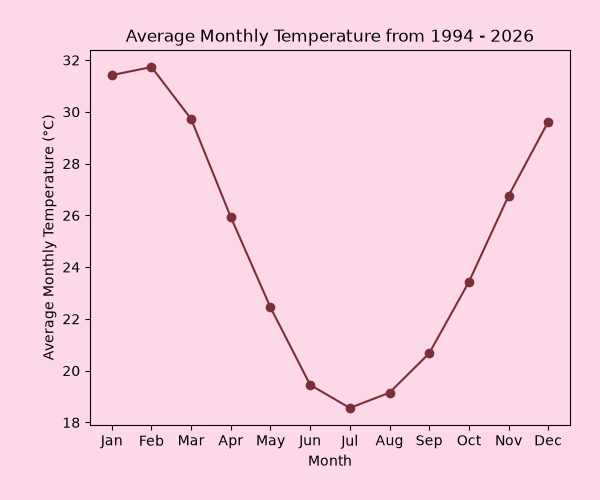
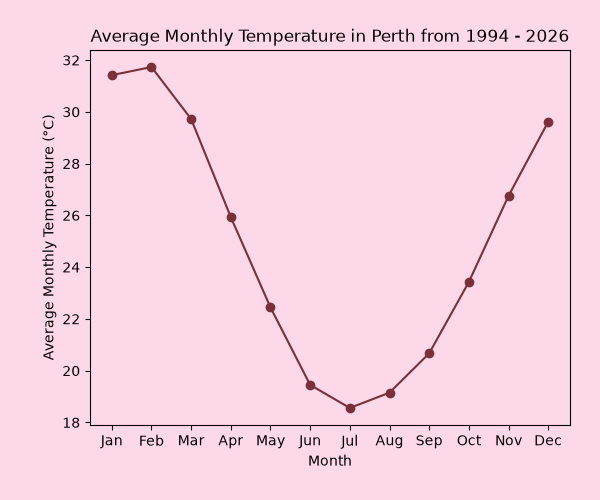
Centring headings

Changed region(s): [[0.15, 0.06, 0.96, 0.09]]

diff --git a/frontend.html b/frontend.html
@@ -112,6 +112,28 @@ img {
   max-width: 50%;
   width: 100%;
 }
+
+/* centring the season buttons on the home page */
+.season-picker {
+    text-align: center;
+}
+
+/* centring each heading */
+.home-text {
+    text-align: center;
+}   
+
+.birak-text {
+    text-align: center;
+}
+
+.kambarang-text {
+    text-align: center;
+}
+
+.makuru-text {
+    text-align: center;
+}
     </style>
 </head>
 <body>
@@ -119,25 +141,37 @@ img {
 <div class="app">
 
  <div id="home" class="screen active">
+    <div class="home-text"> 
     <h1>Family activities in the Nyoongar Seasons</h1>
+    </div>
     <h2>Of the six Nyoongar Calender seasons, 3 are the main focus for this app, based on their differences from each other, and their alignment with the school holidays in Australia.</h2>
-    <p>These are: Birak (Summer), Kambarang (Spring) and Makuru (Winter)</p>
+    <p>These are: <strong>Birak</strong>(Summer), <strong>Kambarang</strong>(Spring) and <strong>Makuru</strong>(Winter)</p>
+
+    <div class="season-picker">
+     <h2>Pick a season to explore:</h2>
+    <button onclick="showScreen('birak')">Birak</button>
+    <button onclick="showScreen('kambarang')">Kambarang</button>
+    <button onclick="showScreen('makuru')">Makuru</button>
+    </div>
+
+    <p>The Nyoongar region is the south-western region of Western Australia. This includes the Perth metropolitan area and surrounding regions, so these activities are mainly focused in the Perth area.</p>
+    <p>To understand which activities are suitable for each season, it is important to consider the weather patterns and natural occurrences of each time of year. This includes temperature and rainfall patterns.</p>
 
     <div class="chart-row">
         <img src="Data/average_monthly_temperature.png" alt="Average Monthly Temperature Chart">
         <img src="Data/average_monthly_precipitation.png" alt="Average Monthly Precipitation Chart">
     </div>
 
-    <h2>Pick a season to explore:</h2>
-    <button onclick="showScreen('birak')">Birak</button>
-    <button onclick="showScreen('kambarang')">Kambarang</button>
-    <button onclick="showScreen('makuru')">Makuru</button>
 </div>
 
     <div id="kambarang" class="screen">
+    <div class="kambarang-text">
     <h2>Kambarang</h2>
     <h3>October to November</h3>
+    </div>
     <p>The season of wildflowers. Kambarang is a time of renewal and growth, when the land is covered in colorful blooms. The days are becoming warmer and drier</p>
+    <p>Average Temperature: 25.12°C</p>
+    <p>Average Precipitation: 32.16mm</p>
 
     <h3>Kambarang activities to do on a budget:</h3>
     <ul>
@@ -160,13 +194,17 @@ img {
     </div>
 
     <div id="birak" class="screen">
-    <h2>Birak</h2>
-    <h3>December to January</h3>
+        <div class="birak-text">
+        <h2>Birak</h2>
+        <h3>December to January</h3>
+        </div>
     <p>The season of fire. Birak is a time of heat and dryness, where the Sea Breeze brings relief from the scorching sun. It's a time for outdoor activities and enjoying the natural beauty of the land.</p>
+    <p>Average Temperature: 30.53°C</p>
+    <p>Average Precipitation: 12.9mm</p>
 
     <h3>Birak activities to do on a budget:</h3>
     <ul>
-        <li><strong>Beaches:</strong> Cottesloe Beach, Omeo Wreck, Mettam's Pool, Hillary's Boat Harbour, and more for swimmming, picnicing, and having fun with the family.</li>
+        <li><strong>Beaches:</strong> Cottesloe Beach, Omeo Wreck, Mettam's Pool, Hillary's Boat Harbour, and more for swimming, picnicing, and having fun with the family.</li>
         <li><strong>Kings Park walks:</strong> Visit Poolgarla family area, Rio Tinto Naturescape, Fraser Ave Precinct for a picnic, walk through the trails in the Botanic Gardens, visit the May Driver Parkland with the dinosaur statues, and walk through the numerous trails in Kings Park.</li>
         <li><strong>Go down to the Swan River:</strong> Go for a swim at any of the established swimming spots such as Matilda Bay, Point Walter and more. </li>
         <li><strong>Fremantle Markets:</strong> Visit the oldest market in Australia, open Fridays, Saturdays and Sundays, eat food and go shopping. </li>
@@ -186,9 +224,13 @@ img {
     </div>
 
     <div id="makuru" class="screen">
+    <div class="makuru-text">
     <h2>Makuru</h2>
     <h3>June to July</h3>
+    </div>
     <p>The cold and wet season. Makuru is a time of rain and cooler temperatures, where the land rejuvenates and the rivers flow. It is a time for indoor activities and enjoying the warmth of home.</p>
+    <p>Average Temperature: 19.0°C</p>
+    <p>Average Precipitation: 136.89mm</p>
     <h3>Makuru activities to do on a budget:</h3>
     <ul>
         <li><strong>Visit the Perth Cultural Centre:</strong> Explore museums, galleries, and libraries.</li>

diff --git a/Data/charts.py b/Data/charts.py
@@ -10,7 +10,7 @@ plt.figure(figsize=(6,5), facecolor="#fdd8e8") # sets background colour of chart
 monthly_avg.plot(kind="line", marker="o", color="#7B3039") # marker="o" just draws a small dot at each actual data point on top of the line, which makes it easier to read exact values.
 plt.gca().set_facecolor("#fdd8e8") # sets background colour of chart - colours inner plot area specifically
 
-plt.title("Average Monthly Temperature from 1994 - 2026")
+plt.title("Average Monthly Temperature in Perth from 1994 - 2026")
 plt.xlabel("Month")
 plt.ylabel("Average Monthly Temperature (°C)")
 plt.xticks(range(1, 13), labels=["Jan", "Feb", "Mar", "Apr", "May", "Jun", "Jul", "Aug", "Sep", "Oct", "Nov", "Dec"]) # makes sure all 12 months show up on the x-axis
@@ -21,10 +21,10 @@ plt.savefig("average_monthly_temperature.png", facecolor="#fdd8e8") # saves the 
 monthly_avg_precip = data.groupby("Month")["Precipitation"].mean()
 
 plt.figure(figsize=(6,5), facecolor="#fdd8e8") # sets background colour of chart 
-monthly_avg_precip.plot(kind="bar", color="#7B3039")
+monthly_avg_precip.plot(kind="bar", color="#7B3039") # bar chart with different colours for each month
 plt.gca().set_facecolor("#fdd8e8") # sets background colour of chart - colours inner plot area specifically
 
-plt.title("Average Monthly Precipitation from 1994 - 2026")
+plt.title("Average Monthly Precipitation in Perth from 1994 - 2026")
 plt.xlabel("Month")
 plt.ylabel("Average Monthly Precipitation (mm)")
 plt.xticks(range(0, 12), labels=["Jan", "Feb", "Mar", "Apr", "May", "Jun", "Jul", "Aug", "Sep", "Oct", "Nov", "Dec"]) # makes sure all 12 months show up on the x-axis
